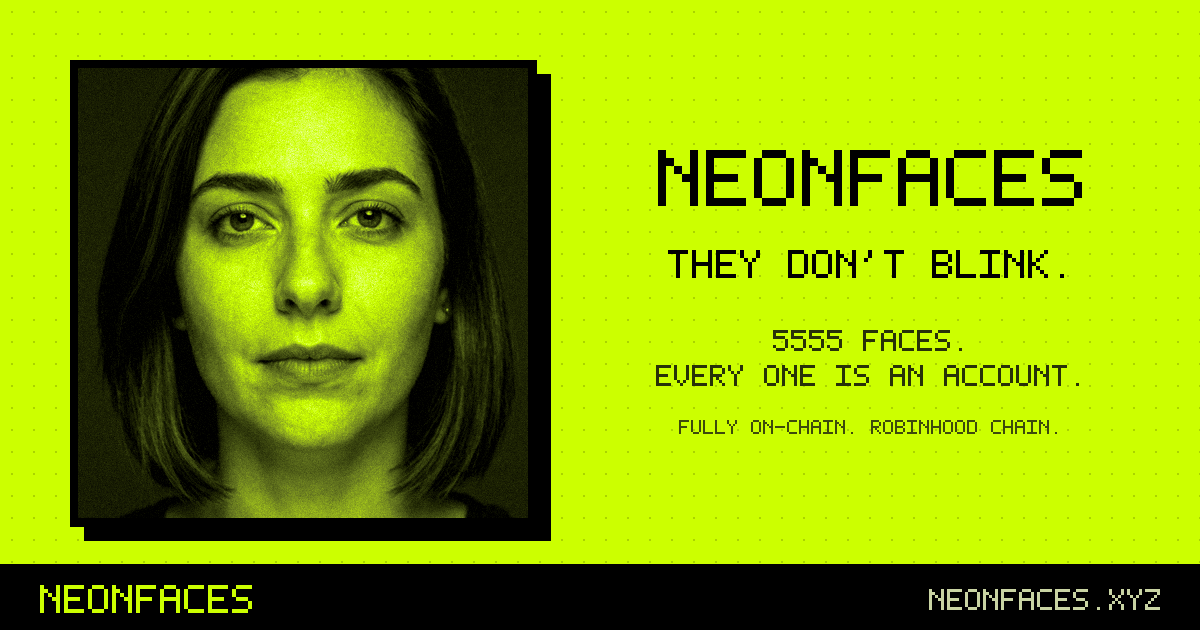
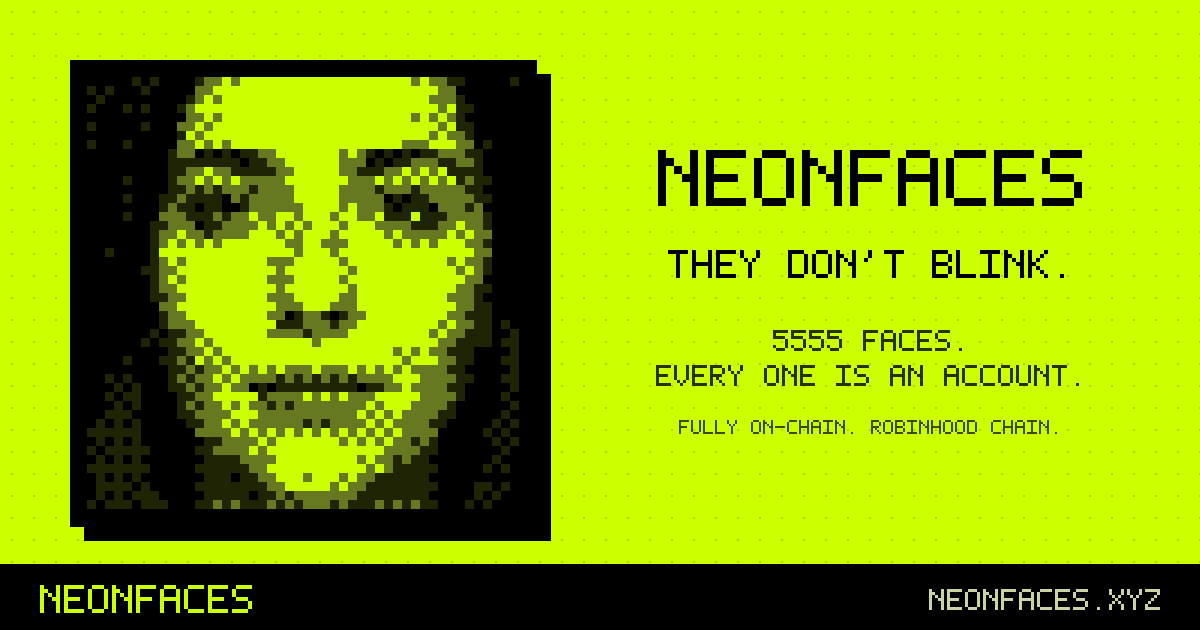
Link preview: set #419's Face, the face of the collection

Changed region(s): [[0.0617, 0.0905, 0.4625, 0.8444]]

diff --git a/web/index.html b/web/index.html
@@ -21,16 +21,16 @@
     <meta property="og:url" content="%VITE_SITE_URL%" />
     <meta property="og:title" content="NEONFACES: They don't blink." />
     <meta property="og:description" content="5555 faces. Every one is an account. Fully on-chain on Robinhood Chain." />
-    <meta property="og:image" content="%VITE_SITE_URL%og.png?v=1005" />
+    <meta property="og:image" content="%VITE_SITE_URL%og.png?v=1005f" />
     <meta property="og:image:type" content="image/png" />
     <meta property="og:image:width" content="1200" />
     <meta property="og:image:height" content="630" />
-    <meta property="og:image:alt" content="A woman of the collection, lit in neon, in a black frame on a neon page, with the words: They don't blink." />
+    <meta property="og:image:alt" content="The Face of a woman of the collection, in neon pixels, in a black frame on a neon page, with the words: They don't blink." />
     <meta name="twitter:card" content="summary_large_image" />
     <meta name="twitter:title" content="NEONFACES: They don't blink." />
     <meta name="twitter:description" content="5555 faces. Every one is an account. Fully on-chain on Robinhood Chain." />
-    <meta name="twitter:image" content="%VITE_SITE_URL%og.png?v=1005" />
-    <meta name="twitter:image:alt" content="A woman of the collection, lit in neon, in a black frame on a neon page, with the words: They don't blink." />
+    <meta name="twitter:image" content="%VITE_SITE_URL%og.png?v=1005f" />
+    <meta name="twitter:image:alt" content="The Face of a woman of the collection, in neon pixels, in a black frame on a neon page, with the words: They don't blink." />
     <link rel="preconnect" href="https://fonts.googleapis.com" />
     <link rel="preconnect" href="https://fonts.gstatic.com" crossorigin />
     <link href="https://fonts.googleapis.com/css2?family=Silkscreen:wght@400;700&family=JetBrains+Mono:wght@400;600;800&family=Space+Grotesk:wght@400;500;700&display=swap" rel="stylesheet" />

diff --git a/art/export_brand.py b/art/export_brand.py
@@ -190,28 +190,20 @@ def icons() -> None:
         (landing / name).write_bytes((WEB / name).read_bytes())
 
 
-def lime_portrait(path: Path, size: int, seed: int = 419) -> Image.Image:
-    """A source portrait of the collection (a person who doesn't exist) lit like the site: its greys mapped onto the eye
-    palette, black through olive to neon and ice, with a fine film grain so it reads as a photograph, not a filter."""
-    im = Image.open(path).convert("L")
-    w, h = im.size
-    c = int(min(w, h) * 0.86)  # a close crop: forehead to chin, the eyes on the upper third
-    left, top = (w - c) // 2, int(h * 0.10)
-    im = im.crop((left, top, left + c, top + c)).resize((size, size), Image.LANCZOS)
-    g = np.asarray(im, dtype=np.float32) / 255.0
-    g = np.clip((g - 0.08) / 0.84, 0, 1) ** 0.95  # open the shadows a little, keep the highlights
-    rng = np.random.default_rng(seed)
-    g = np.clip(g + rng.normal(0, 0.025, g.shape), 0, 1)
-    stops = np.linspace(0, 1, len(EYE_PAL))
-    pal = np.array(EYE_PAL, dtype=np.float32)
-    rgb = np.stack([np.interp(g, stops, pal[:, k]) for k in range(3)], axis=-1)
-    return Image.fromarray(rgb.astype(np.uint8), "RGB")
+def set_face(set_id: int, size: int, cells: int = 48) -> Image.Image:
+    """A whole set's Face (its four pieces as one face, art/output/images, drawn from the on-chain records) on black,
+    at a whole number of pixels per cell so every cell stays square and sharp."""
+    face = Image.open(ROOT / "output" / "images" / f"set-{set_id}.png").convert("RGB").resize((cells, cells), Image.NEAREST)
+    k = size // cells
+    out = Image.new("RGB", (size, size), BLACK)
+    out.paste(face.resize((cells * k, cells * k), Image.NEAREST), ((size - cells * k) // 2, (size - cells * k) // 2))
+    return out
 
 
 def og_card(faces: list[str], hero) -> None:
     """The link preview (29 Sep): NEONCAM's lit page. Neon field with its dot grid, black type, one face in a black
     frame with the site's offset shadow, and the NEONCAM photo's black band along the bottom. Since 5 Oct the face is
-    a person of the collection (set #419's portrait, 31), lit in the palette, instead of a Face's pixels."""
+    set #419's: the face of the collection (the founder)."""
     W, H = 1200, 630
     og = Image.new("RGB", (W, H), NEON)
     d = ImageDraw.Draw(og)
@@ -295,8 +287,8 @@ def banner_gif(faces: list[str]) -> None:
         (landing / name).write_bytes((BRAND / name).read_bytes())
 
 
-# the link preview's face (the founder, 5 Oct): a person of the collection around 30, set #419's portrait (a woman, 31)
-OG_PORTRAIT = lambda: lime_portrait(ROOT / "portraits" / "set-419.png", 450)  # noqa: E731
+# the link preview's face (the founder, 5 Oct): set #419's Face, the face of the collection
+OG_PORTRAIT = lambda: set_face(419, 450)  # noqa: E731
 
 
 def main() -> None:
